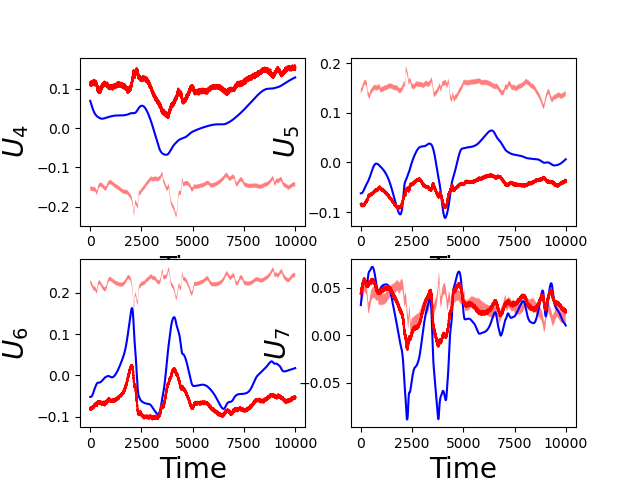
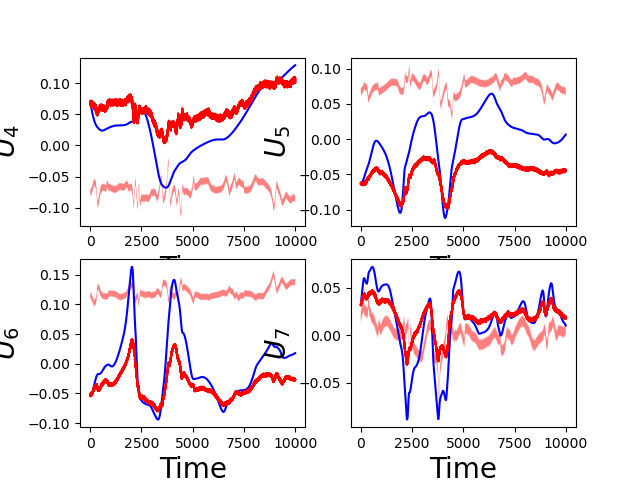
enkf pas loin

diff --git a/KF/enKF_as_paper.py b/KF/enKF_as_paper.py
@@ -127,8 +127,8 @@ n     = 44 # state size  on veut estimer les Un de 1 à 22 avec Re et Im donc 44
 p     = 12 # On observe Un n=5,6,7,8,9,10 avec Re et Im donc 12 variables d'observations 
 nb    = Npts # number of times
 time  = np.array(range(nb)) # time vector
-var_Q = 0.01 # error variance of the model (in Kalman)
-var_R = 1 # error variance of the observations (in Kalman)
+var_Q = 0.0 # error variance of the model (in Kalman)
+var_R = 0.1 # error variance of the observations (in Kalman)
 #x_0   = np.zeros((n)) # initial coundition (mean)
 x_0   = np.zeros(n)#Data_shell[0,:] # initial coundition (mean) = première ligne du jeu de données
 P_0   = np.eye(n,n) # initial coundition (covariance)
@@ -336,10 +336,10 @@ def generate_observations(p, H):
 H = np.eye(44,44) #array([[1,0,0,0], [0,1,0,0]])
 H = H[2*k_min_collocation:2*k_max_collocation,:] # on observe que les modes de 5 à 10 avec Re et Im donc 12 variables d'observations
 
-i_nan = np.random.choice(Npts, size=int(0.5*Npts), replace=False) # indices des observations à supprimer
+i_nan = np.random.choice(Npts, size=int(0.8*Npts), replace=False) # indices des observations à supprimer
 
 y_obs = H @ Data_shell.T + np.random.multivariate_normal(np.zeros(p),R,size=(Npts,)).T
-y_obs[:,i_nan] = y_obs[:,i_nan]*np.nan
+#y_obs[:,i_nan] = y_obs[:,i_nan]*np.nan
 
 # tiré des temps au hasard pour enlever des observations 
 
@@ -352,10 +352,11 @@ y_obs[:,i_nan] = y_obs[:,i_nan]*np.nan
 #     plt.xlabel('Time')
 #     plt.ylabel("y_obs vs true state")
 #     plt.legend()
-#     plt.savefig(SAVE + f"obs_true_state_{i}")
+# plt.show()
+    #plt.savefig(SAVE + f"obs_true_state_{i}")
 
 ### Ensemble Kalman initialization
-Ne = 50                   # number of ensembles
+Ne = 100                   # number of ensembles
 x_f_enkf = np.zeros((n,nb))   # forecast state
 P_f_enkf = np.zeros((n,n,nb)) # forecast error covariance matrix
 x_a_enkf = np.zeros((n,nb))   # analysed state
@@ -424,7 +425,8 @@ P_a_enkf[:,:,0] = np.cov(x_a_enkf_tmp)    # initial state covariance
 #     plt.ylabel('Xp and Yp')
 #     plt.legend()
 #     plt.savefig(SAVE + f"xy_start_enKF_{j}")
-
+lmb = 0.2
+g = np.zeros(n)
 for k in tqdm.tqdm(range(nb)): # forward in time #nb
     # prediction step
     # il faut un initialisation custom pour chaque Ne
@@ -443,9 +445,9 @@ for k in tqdm.tqdm(range(nb)): # forward in time #nb
         #_,_,forward_x,forward_y  = m_b(x_a_enkf_tmp[:,i].T,N_fs=999,n_steps_first=998,custom=True)
         #x_f_enkf_tmp[0::2,i],x_f_enkf_tmp[1::2,i] = forward_x.T,forward_y.T ### A CACHER
         # Modèle supposé parfait ==> pas de bruit du modèle
-        x_f_enkf_tmp[:,i] += np.random.multivariate_normal(np.zeros(n), Q)
+        #x_f_enkf_tmp[:,i] += np.random.multivariate_normal(np.zeros(n), Q)
 
-        y_f_enkf_tmp[:,i] = H @ x_f_enkf_tmp[:,i] + np.random.multivariate_normal(np.zeros(p), R) ### A CACHER
+        y_f_enkf_tmp[:,i] = H @ x_f_enkf_tmp[:,i] - np.random.multivariate_normal(np.zeros(p), R) ### A CACHER
     
     P_f_enkf_tmp = np.cov(x_f_enkf_tmp) ### A CACHER
     # Kalman gain
@@ -456,15 +458,29 @@ for k in tqdm.tqdm(range(nb)): # forward in time #nb
         for i in range(Ne):
             x_a_enkf_tmp[:,i] = x_f_enkf_tmp[:,i] + K_g @ (y_obs[:,k] - y_f_enkf_tmp[:,i]) ### A CACHER
         P_a_enkf_tmp = np.cov(x_a_enkf_tmp) ### A CACHER
+        
+        # inflation multiplicative
+        P_a_tilde = (np.eye(n) - K_g @ H) @ P_f_enkf_tmp ### A CACHER
+        mu_n = np.mean(x_a_enkf_tmp, axis=1) ### A CACHER
+
+        for j in range(n):
+                g[j] = max(1,1+lmb*(P_a_enkf_tmp[j,j]-P_a_tilde[j,j])/P_a_enkf_tmp[j,j]) # terme d'inflation multiplicative pour chaque variable d'état ### A CACHER
+        
+        x_f_enkf[:,k]   = np.mean(x_f_enkf_tmp,1)
+        P_f_enkf[:,:,k] = P_f_enkf_tmp
+        x_a_enkf[:,k]   = g*np.mean(x_a_enkf_tmp,1) + (1-g)*mu_n
+        P_a_enkf[:,:,k] = P_a_enkf_tmp
+        # U_tilde = g*U_tilde + (1-g)*mu_n[:,None] 
+
     else:
             #x_a_enkf_tmp[:,:,0] = x_a_enkf_tmp[:,:,1]
             x_a_enkf_tmp = x_f_enkf_tmp
             P_a_enkf_tmp = P_f_enkf_tmp 
     # store results
-    x_f_enkf[:,k]   = np.mean(x_f_enkf_tmp,1)
-    P_f_enkf[:,:,k] = P_f_enkf_tmp
-    x_a_enkf[:,k]   = np.mean(x_a_enkf_tmp,1)
-    P_a_enkf[:,:,k] = P_a_enkf_tmp
+            x_f_enkf[:,k]   = np.mean(x_f_enkf_tmp,1)
+            P_f_enkf[:,:,k] = P_f_enkf_tmp
+            x_a_enkf[:,k]   = np.mean(x_a_enkf_tmp,1)
+            P_a_enkf[:,:,k] = P_a_enkf_tmp
 
 
 ### plot trajectories (true, observed, KF, EnKF)
